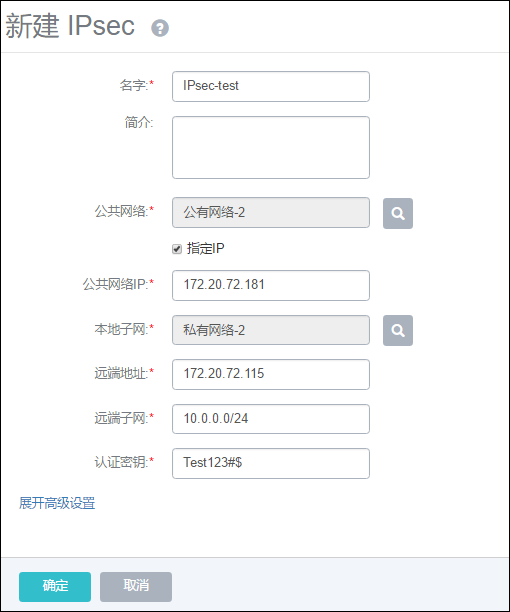
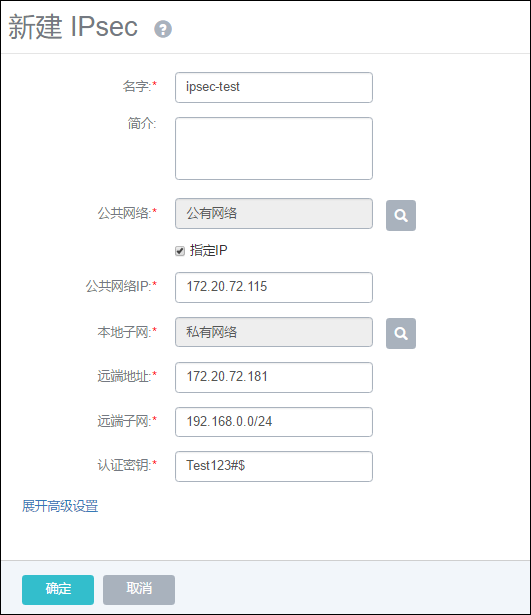
Updates Network/ipsec.md
Auto commit by GitBook Editor

diff --git a/Network/ipsec.md b/Network/ipsec.md
@@ -12,6 +12,9 @@ Mevoco支持采用IPsec隧道技术实现站点到站点（site-to-site）的虚
 
 * IPsec路由模型，只支持基于对端网段配对模型，只支持路由配对模式，不支持路由转发模式（不支持OSPF或BGP等动态路由协议）
 
+![png](../images/14-4-7-2.png "图14-4-7-2 IPsec隧道界面")
+
+###### 图14-4-7-2 IPsec隧道界面 
 
 为了更好的演示IPsec功能，我们准备了**两个mevoco环境**，其网络情况如下：
 ```
@@ -28,16 +31,16 @@ IPsec-test-VM2:192.168.0.252
 ```
 我们之间进入VM1的console，去ping VM2的IP，是肯定ping不通的。此时我们借助IPsec来联通两个私有网段。
 
-点击Mevoco1菜单栏的网络中的IPsec隧道按钮，进入IPsec隧道界面，如图14-4-7-1所示。
+点击Mevoco1菜单栏的网络中的IPsec隧道按钮，进入IPsec隧道界面，如图14-4-7-2所示。
 
-![png](../images/14-4-7-1.png "图14-4-7-1 IPsec隧道界面")
-###### 图14-4-7-1 IPsec隧道界面 
+![png](../images/14-4-7-2.png "图14-4-7-2 IPsec隧道界面")
+###### 图14-4-7-2 IPsec隧道界面 
 
-点击新建按钮，弹出新建IPsec界面，如图14-4-7-2所示。需要填写名字、简介、公共网络及IP、本地子网、远端地址、远端子网、认证密钥。
+点击新建按钮，弹出新建IPsec界面，如图14-4-7-3所示。需要填写名字、简介、公共网络及IP、本地子网、远端地址、远端子网、认证密钥。
 
-![png](../images/14-4-7-2.png "图14-4-7-2 新建IPsec隧道1")
+![png](../images/14-4-7-3.png "图14-4-7-3 新建IPsec隧道1")
 
-###### 图14-4-7-2 新建IPsec隧道1
+###### 图14-4-7-3 新建IPsec隧道1
 
 名字：IPsec隧道名称。
 
@@ -53,15 +56,18 @@ IPsec-test-VM2:192.168.0.252
 
 认证密码：两边通信的校验密码。支持所有长度的任意字符串。
 
-创建mevoco1的IPsec后，打开Mevoco2的新建IPsec页面。如图14-4-7-3所示。
+创建mevoco1的IPsec后，打开Mevoco2的新建IPsec页面。如图14-4-7-4所示。
 
-![png](../images/14-4-7-3.png "图14-4-7-3 新建IPsec隧道2")
+![png](../images/14-4-7-4.png "图14-4-7-4 新建IPsec隧道2")
 
-###### 图14-4-7-3 新建IPsec隧道2
+###### 图14-4-7-4 新建IPsec隧道2
+
+**注意：**两个环境中，公共网络IP和远端地址互相指定。两边的认证密钥务必保持一致。
+
+这时两边的网络应该已经联通，我们相互ping 子网IP测试一下。如下图所示。
 
 
-
-基本信息
+基本信息 
 创建IPsec隧道时，需要填写必要的本端和远端网络信息，包括：本端公共网络、本端子网、远端地址、远端子网和认证密钥等信息。在两个Mevoco站点场景下，填写以上基本信息则可建立IPsec隧道（高级设置内容一致）。
 
 高级设置
